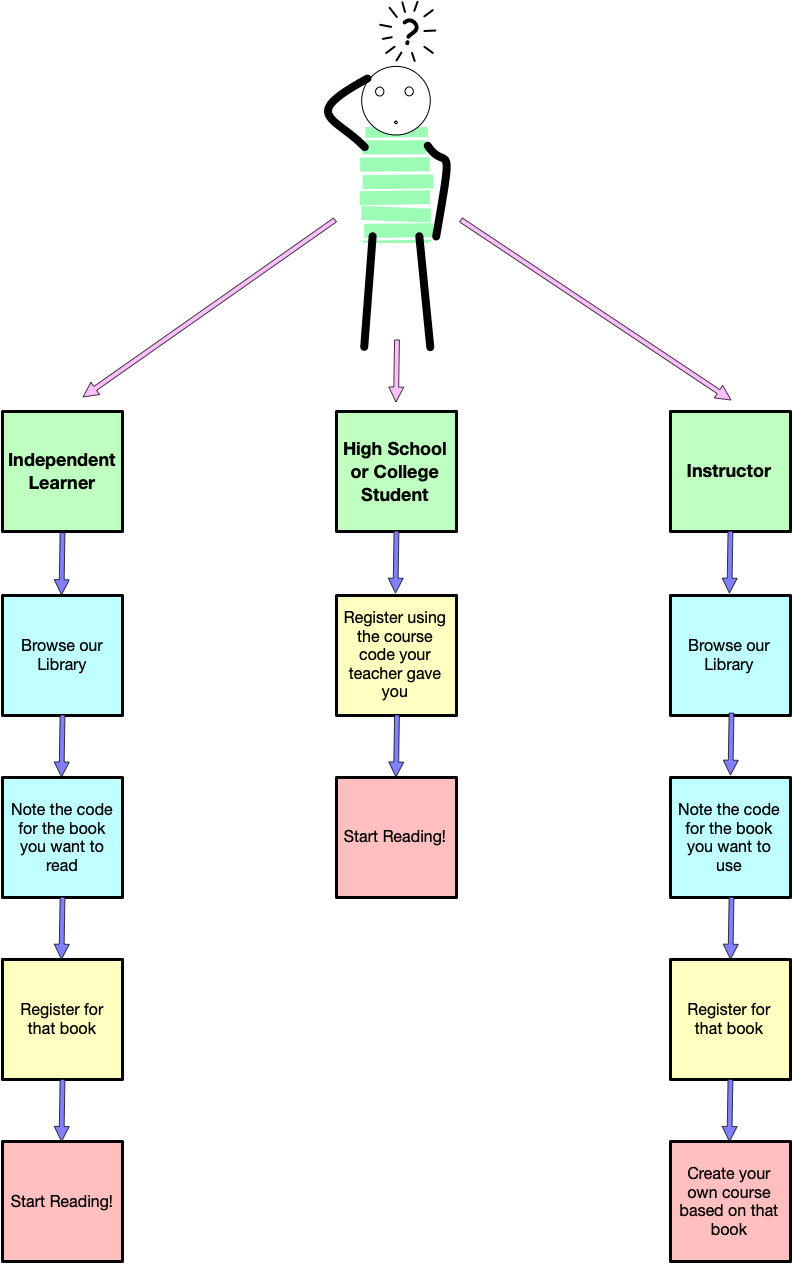
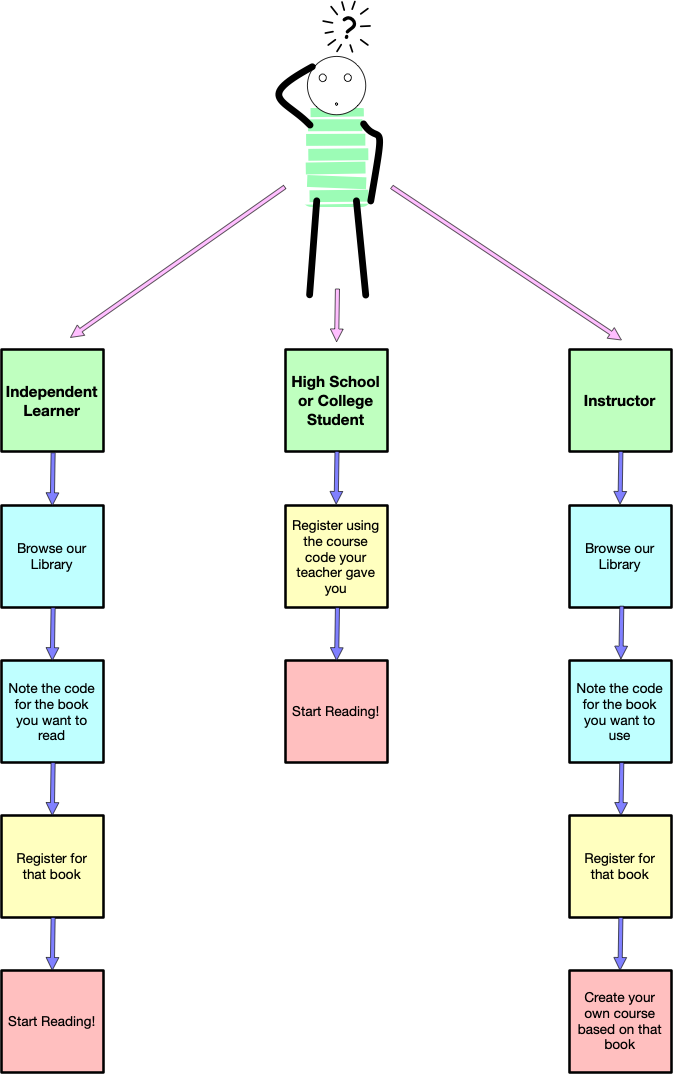
Fix: wording and add image map

diff --git a/views/default/user.html b/views/default/user.html
@@ -330,17 +330,27 @@
         {{if (request.args(0) != 'register') and settings.academy_mode:}}
                 <div class='col-md-8 col-md-offset-2 col-sm-offset-0 mission'>
                     <h2>Our Mission</h2>
-                    <p>The mission of Runestone Academy is to <i>democratize textbooks for the 21st century.</i>  To accomplish that mission we make high quality interactive textbooks available for free to <strong>all students.</strong>  In the 21st century it is silly to think of textbooks as static, so we make great interactive textbooks that actively engage students in learning.  It would also be silly to ignore the rich data that an online textbook can provide to <strong>teachers, authors and researchers.</strong>  To support these different stakeholders we have built a Learning Engineering and Analytics Portal (LEAP).</p>
+                    <p>The mission of Runestone Academy is to <i>democratize textbooks for the 21st century.</i>  To accomplish that mission we make high quality interactive textbooks available for free to <strong>all students.</strong>  In the 21st century it is silly to ignore the wonderful possibilities for interactivity in a web browser, so we make great interactive textbooks that engage students in learning.  It would also be silly to ignore the rich data that an online textbook can provide to <strong>teachers, authors and researchers.</strong>  To support these different stakeholders we have built a Learning Engineering and Analytics Portal (LEAP).</p>
                     <details>
-                        <summary>What is a LEAP?</summary>
+                        <summary>Click find out what a LEAP is!</summary>
                     <ul class="simple">
                     <li><p><strong class="big">Learning Engineering</strong> is the systematic application of evidence-based principles and methods from educational technology and the learning sciences to create engaging and effective learning experiences, support the difficulties and challenges of learners as they learn, and come to better understand learners and learning.  Everything we do on Runestone Academy takes this engineering approach to continuous improvement.</p></li>
-                    <li><p><strong class="big">Analytics</strong> As an instructor understaning your students, which of them are struggling, which of them are working hard, which of them are successful or not is key.  Runestone lets you quickly look at a dashboard of student progress to help you decide how to spend your classroom time most effectively.  As a  researcher or author you want to know what parts of your book are read the most, which questions are effective and which are duds that should be replaced or fixed to make them better.</p></li>
+                    <li><p><strong class="big">Analytics</strong> As an instructor it is key to understand which of your students is struggling, which of them are working hard, which of them are successful or not.  Runestone lets you quickly look at a dashboard of student progress to help you decide how to spend your classroom time most effectively.  As a  researcher or author you want to know what parts of your book are read the most, which questions are effective and which are duds that should be replaced or fixed to make them better.</p></li>
                     <li><p><strong class="big">Portal</strong>: Runestone Academy is a portal for online textbooks, students can interact with our books on any device for free.  Runestone Academy is a portal for teachers who want to create a course, grade their students work, and monitor their progress all in one place.  Runestone Acaademy is a portal for authors and researchers who want to invent new pedagogical strategies and try them out on lots of students while gaining access to anonymous information to help them better understand how students learn.</p></li>
                     </ul>
                     </details>
                     <p>We have partnered with the <strong class="big"><a class="reference external" href="https://pretextbook.org">PreTeXt project</a></strong> to provide an outstanding authoring tool to create interactive textbooks.  And not only interactive textbooks in HTML but highly accessible textbooks in many formats including ePub, PDF, and braille.</p>
                     <p>Runestone Academy LTD operates as a non-profit.  We are awaiting official 501(c)(3) approval from the IRS.</p>
+                    <details>
+                        <summary>How many ways is Runestone Free?</summary>
+                        <ul>
+                            <li>No-cost textbook hosting with no local IT involvement</li>
+                            <li>Ad-free textbooks when logged in.  Yes, you might see some ads when you are poking around.  We serve ads to un-registered users to help cover our costs.</li>
+                            <li>As a non-profit we do not monitize your personal information in any way.</li>
+                            <li>Freedom to change and modify textbooks.  All textbooks on Runestone are Open Source either GNU-FDL or Creative Commons.</li>
+                            <li>Freedom to run your own server or change the server code.  All of our code carries an MIT open source license.</li>
+                        </ul>
+                    </details>
                     <p style="text-align: center;">Help me <a role="button" class="btn btn-primary" href="/runestone/default/start">Get Started</a></p>
                 </div>
                 <style>
@@ -385,6 +395,9 @@
                         display: list-item;
                         font-weight: bold;
 
+                    }
+                    summary:hover {
+                        cursor: pointer;
                     }
                     div.partners {
                         margin-top: 20px;

diff --git a/views/default/start.html b/views/default/start.html
@@ -13,11 +13,19 @@
         How you get started on Runestone depends on who you are. We don't care, everyone
         is welcome here, and we hope this road map can get you off to a smooth start.
     </p>
-
+    <map name="GraffleExport">
+    <area shape=rect coords="569,970,671,1072" href="https://runestone.academy/runestone/designer/index">
+    <area shape=rect coords="569,815,671,917" href="https://runestone.academy/runestone/default/user/register">
+    <area shape=rect coords="1,815,103,917" href="https://runestone.academy/runestone/default/user/register">
+    <area shape=rect coords="569,505,671,607" href="https://runestone.academy/ns/books/index">
+    <area shape=rect coords="285,505,387,607" href="https://runestone.academy/runestone/default/user/register">
+    <area shape=rect coords="1,505,103,607" href="https://runestone.academy/ns/books/index">
+    </map>
     <div class="getstarted">
         <image
+            border=0
             src="/runestone/static/images/GettingStartedWithRunestone.png"
-            width="80%"
+            usemap="#GraffleExport"
         />
     </div>
 
